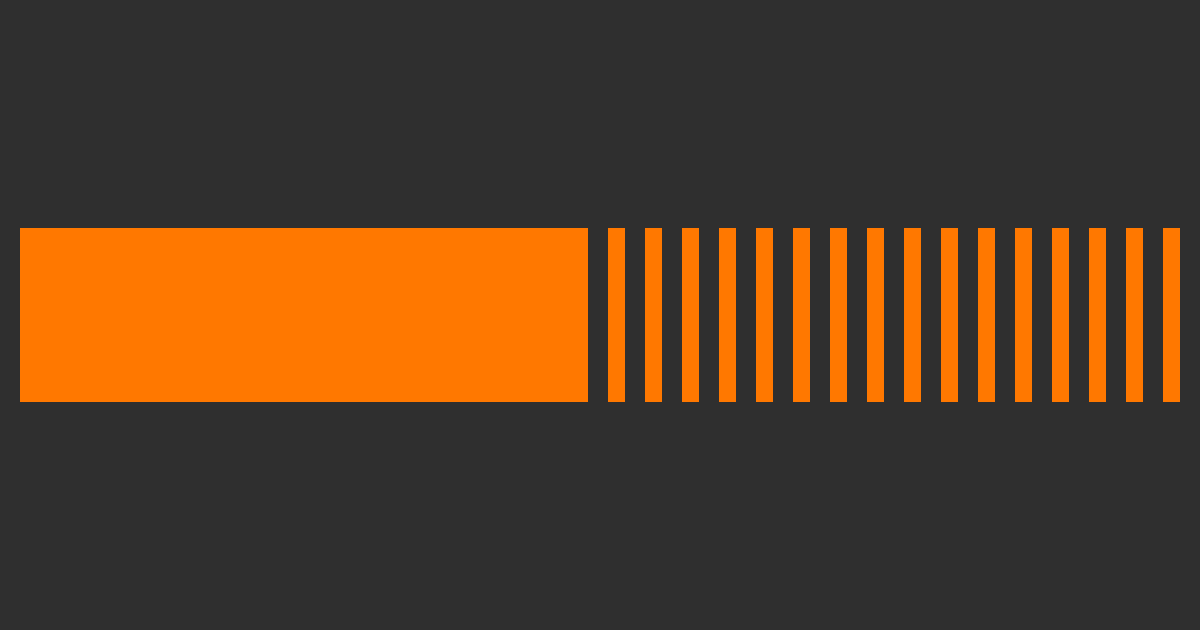
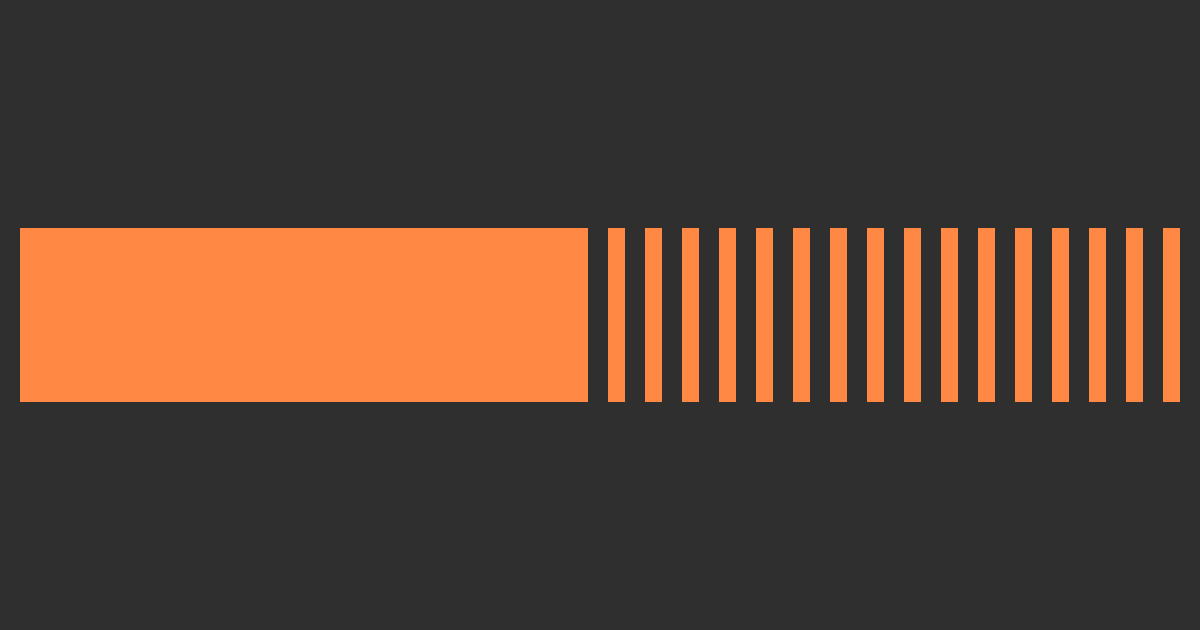
minor theme fixup

Changed region(s): [[0.0, 0.3619, 0.9867, 0.6635]]

diff --git a/static/terminal.css b/static/terminal.css
@@ -1,10 +1,10 @@
 :root {
   --background: #2f2f2f;
-  --foreground: #deddda;
-  --accent: #ff7800;
+  --foreground: #eceae5;
+  --accent: #ff8844;
   --font-size: 1rem;
   --line-height: 1.54rem;
-  --radius: 4px;
+  --radius: 2px;
 }
 
 html {
